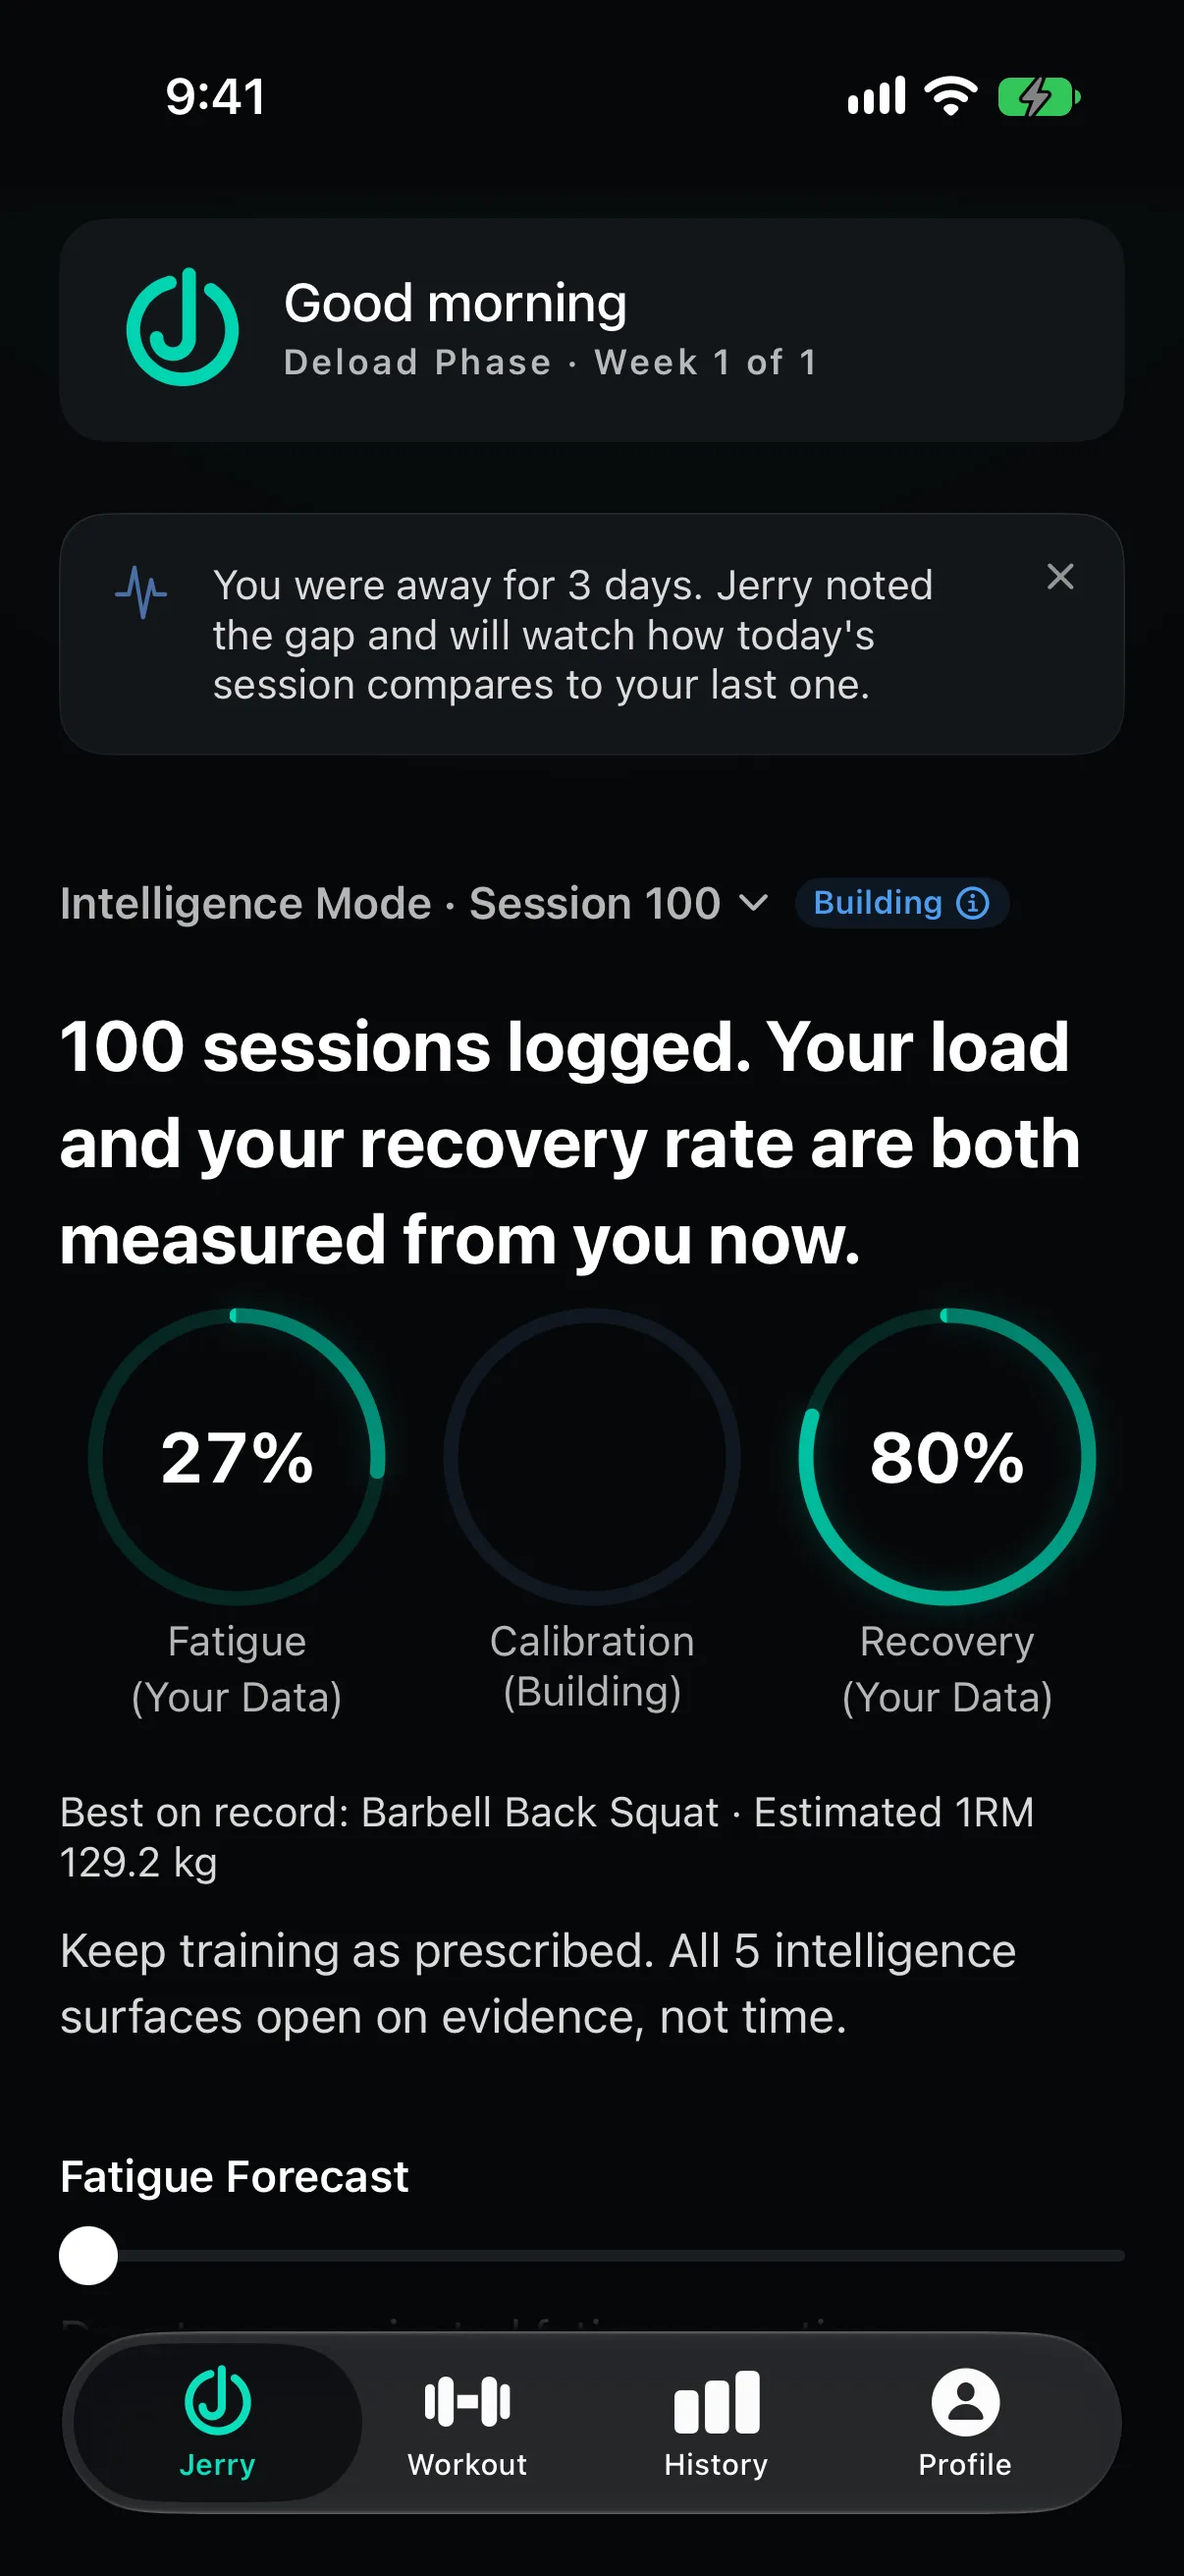
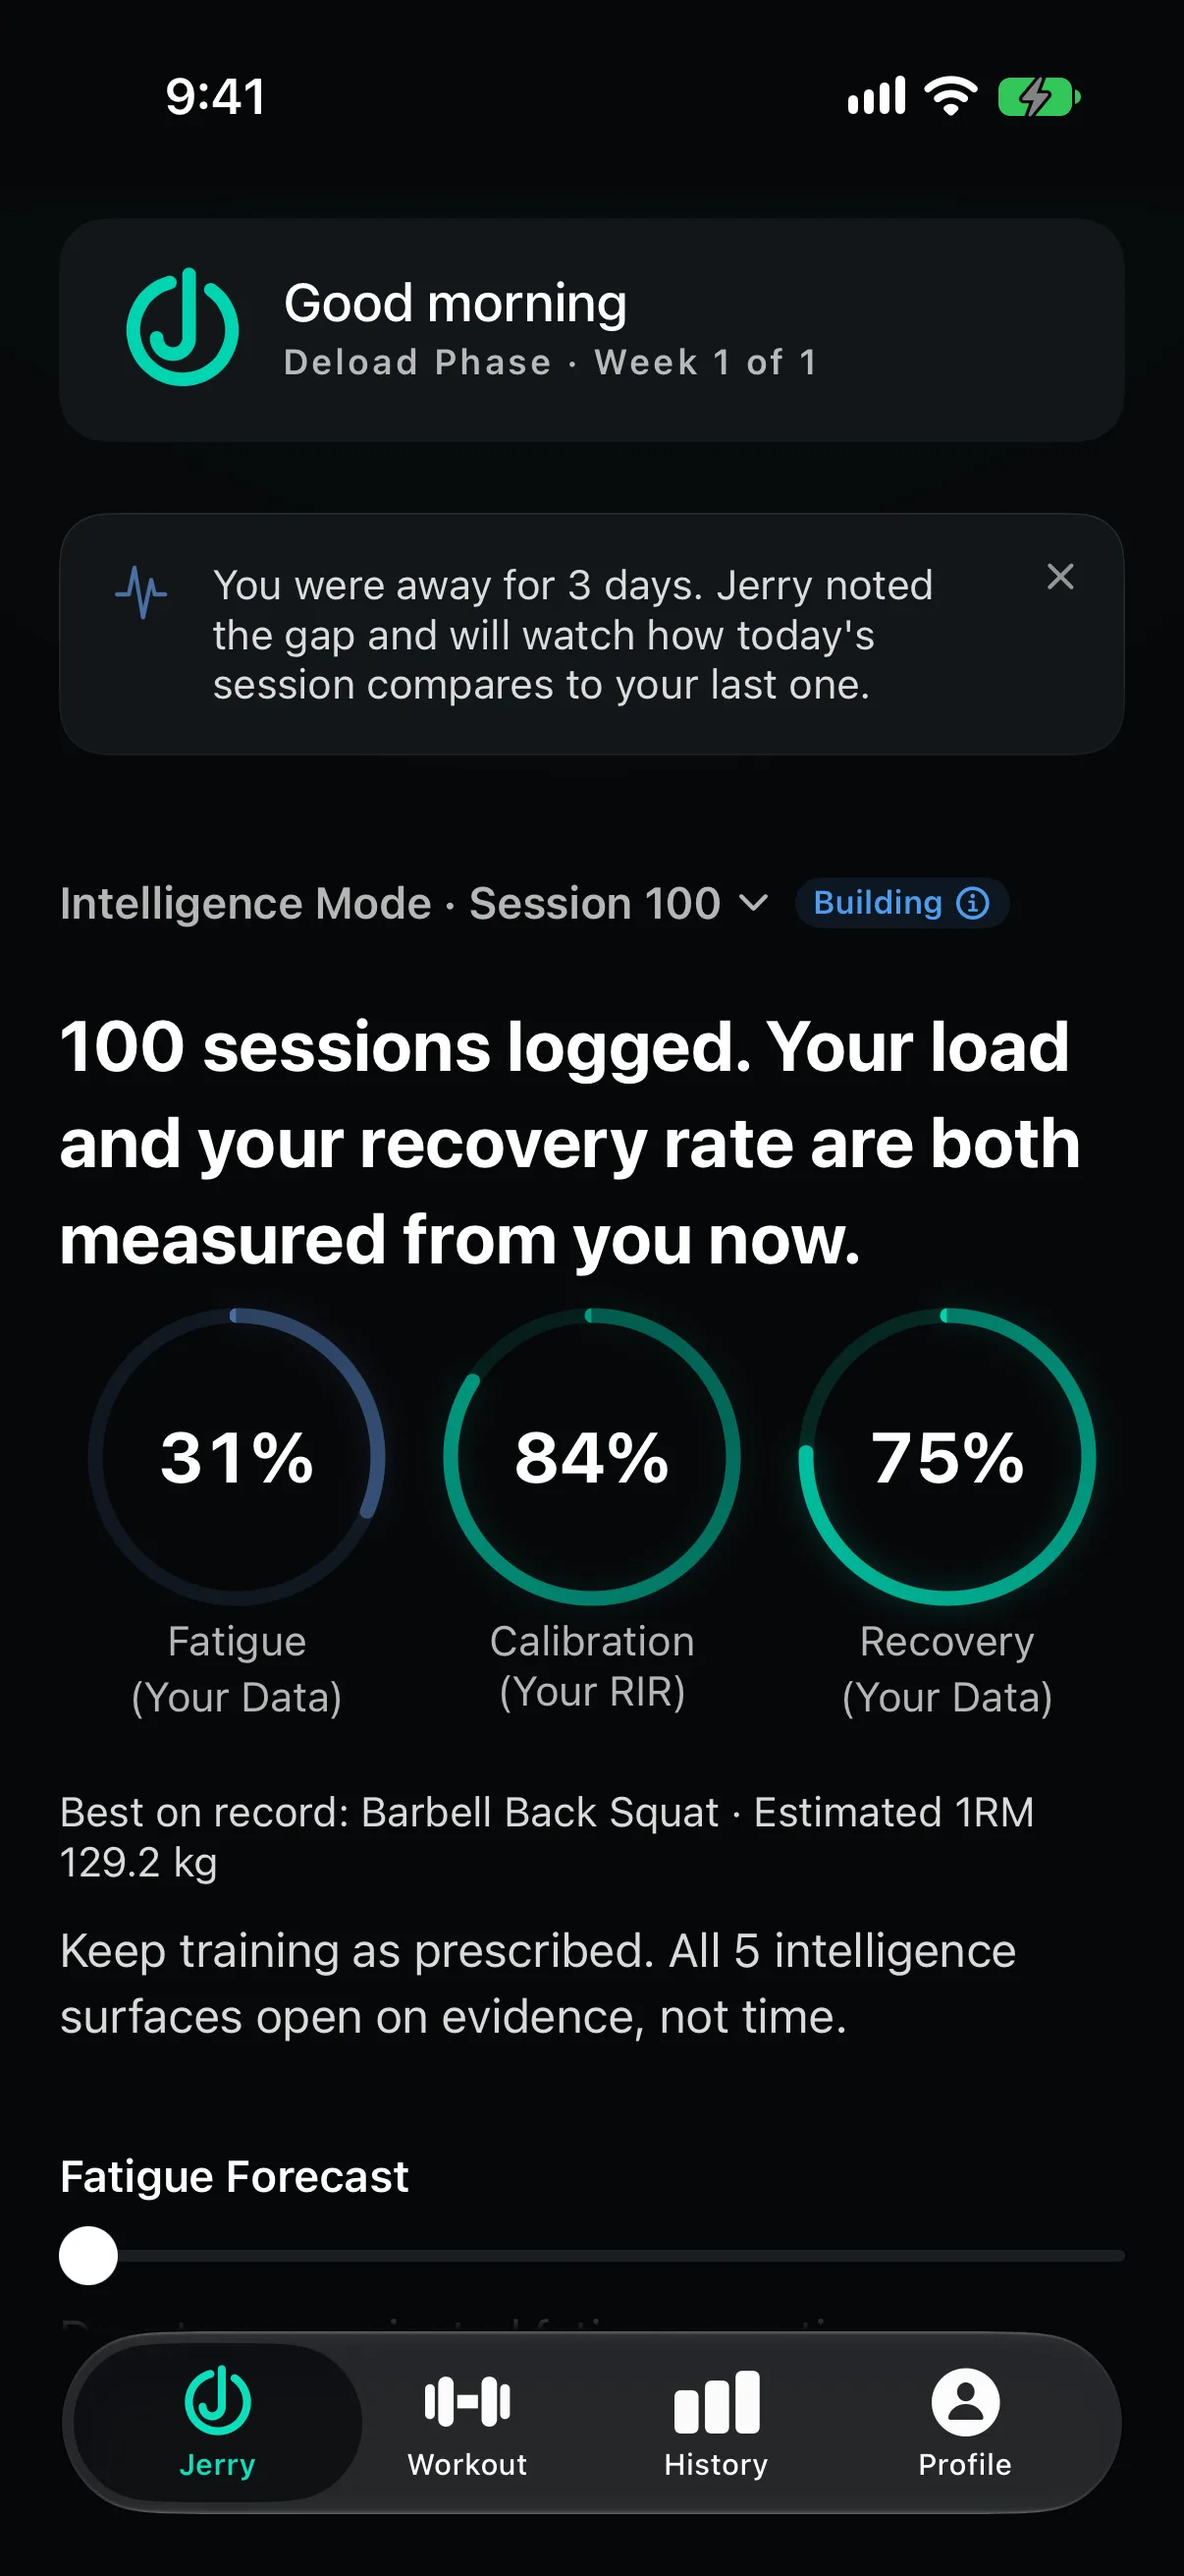
The ring finally reads a human number, and the gate caught the one stale figure I missed [verify-exempt: SEPARATE website repo, zero Swift. Three captures and one HTML file. The app tree shows 0 changes from me. ./check.sh green below.]
Re-shot against the peer's bd042841 (`scripts/verify.sh screens`, 14 of 14 flows, 88 images,
2065s, artifacts/screens/20260831-071224). All three published frames now come from ONE
athlete under the CURRENT fixture, so the day-one and hundred-session pictures are finally
the same person at two depths rather than two builds.

WHAT THE MIDDLE RING DOES NOW, across the three published frames:
  session 1     Calibration (Building), no number.        Correct: one session is not calibration.
  session 100   Calibration (Your RIR)  84%.              It fills.
  and answered  the same 84%, with fatigue and recovery turning to (Your Data).

That is the third state this ring has been in tonight and the first publishable one: empty at
every depth (the frozen reps), a perfect 100 (the frozen reserve), and now a number.

🔒 I DID NOT PUBLISH 84% BARE, AND THAT IS THE POINT OF THE CAPTION. The CEO's own phone reads
11% at fifty sessions and he asked tonight whether that was a bug. It is not: the ring scores
how consistently the ATHLETE reports his own effort, and a fixture whose reserve follows a
deterministic rule is a tidier reporter than any human. Publishing 84% as though it were
typical would put a flattering number on the site while the founder's real device shows
eleven, which is the overclaim Rule 15 exists to refuse. The caption says what the number is
narrower than, and that a human sits lower.
[…]

diff --git a/index.html b/index.html
@@ -181,8 +181,8 @@ details.raw pre{font-family:var(--mono);font-size:.6875rem;color:var(--ink3);ove
           <div class="device device--front">
             <div class="device__body"><div class="device__glass">
               <div class="device__screenwrap">
-                <img class="device__screen" src="/assets/shots/dashboard.webp?v=1dc4cd02ac" width="1206" height="2622" fetchpriority="high" decoding="async"
-                     alt="The OrderedStrength dashboard after one logged session. The mode badge reads Building, the fatigue and recovery rings are labelled Pop. Est. at 10 and 92 percent, and the Calibration ring carries no number at all.">
+                <img class="device__screen" src="/assets/shots/dashboard.webp?v=fa1ac92813" width="1206" height="2622" fetchpriority="high" decoding="async"
+                     alt="The OrderedStrength dashboard after one logged session. The mode badge reads Building, the fatigue and recovery rings are labelled Pop. Est. at 6 and 95 percent, and the Calibration ring carries no number at all.">
               </div>
               <span class="device__island" aria-hidden="true"></span><span class="device__sheen" aria-hidden="true"></span>
             </div></div>
@@ -294,7 +294,7 @@ details.raw pre{font-family:var(--mono);font-size:.6875rem;color:var(--ink3);ove
       <div class="device">
         <div class="device__body"><div class="device__glass">
           <div class="device__screenwrap">
-            <img class="device__screen" src="/assets/shots/dashboard.webp?v=1dc4cd02ac" width="1206" height="2622" loading="lazy" decoding="async"
+            <img class="device__screen" src="/assets/shots/dashboard.webp?v=fa1ac92813" width="1206" height="2622" loading="lazy" decoding="async"
                  alt="The OrderedStrength dashboard after one logged session, showing an Intelligence Mode badge reading Building, fatigue and recovery rings labelled Pop. Est., and a line reading that all five intelligence surfaces open on evidence, not time.">
         <span class="pin" style="left:79%;top:36.9%" data-pin="0">1</span>
         <span class="pin" style="left:6.5%;top:67.5%" data-pin="1">2</span>
@@ -424,40 +424,40 @@ field   sealedFor = 1755916800</pre>
         <div class="device">
           <div class="device__body"><div class="device__glass">
             <div class="device__screenwrap">
-              <img class="device__screen" src="/assets/shots/dashboard.webp?v=1dc4cd02ac" width="1206" height="2622" loading="lazy" decoding="async"
-                   alt="The dashboard after one logged session. Fatigue reads 10 percent and recovery 92 percent, both labelled Pop. Est., the Calibration ring carries no number, and the best lift on record is a Barbell Back Squat at an estimated one-rep maximum of 56.3 kilograms.">
+              <img class="device__screen" src="/assets/shots/dashboard.webp?v=fa1ac92813" width="1206" height="2622" loading="lazy" decoding="async"
+                   alt="The dashboard after one logged session. Fatigue reads 6 percent and recovery 95 percent, both labelled Pop. Est., the Calibration ring carries no number, and the best lift on record is a Barbell Back Squat at an estimated one-rep maximum of 56.3 kilograms.">
             </div>
             <span class="device__island" aria-hidden="true"></span><span class="device__sheen" aria-hidden="true"></span>
           </div></div>
           <span class="device__key device__key--act" aria-hidden="true"></span><span class="device__key device__key--vup" aria-hidden="true"></span><span class="device__key device__key--vdn" aria-hidden="true"></span><span class="device__key device__key--pwr" aria-hidden="true"></span><span class="device__key device__key--cam" aria-hidden="true"></span>
         </div>
-        <figcaption><b>What it knows</b><span>Fatigue <code>10%</code> and recovery <code>92%</code>, both stamped <code>Pop. Est.</code> The middle ring says <code>Calibration (Building)</code> and shows no number, because one session is not calibration. The strongest thing on record is a <code>Barbell Back Squat</code> at <code>Estimated 1RM 56.3 kg</code>, which is what a beginner's first weeks actually weigh.</span></figcaption>
+        <figcaption><b>What it knows</b><span>Fatigue <code>6%</code> and recovery <code>95%</code>, both stamped <code>Pop. Est.</code> The middle ring says <code>Calibration (Building)</code> and shows no number, because one session is not calibration. The strongest thing on record is a <code>Barbell Back Squat</code> at <code>Estimated 1RM 56.3 kg</code>, which is what a beginner's first weeks actually weigh.</span></figcaption>
       </figure>
       <figure class="state">
         <div class="device">
           <div class="device__body"><div class="device__glass">
             <div class="device__screenwrap">
-              <img class="device__screen" src="/assets/shots/hundred.webp?v=4ebc875afc" width="1206" height="2622" loading="lazy" decoding="async"
-                   alt="The same dashboard after one hundred logged sessions. The headline says the load now comes from the athlete's own sets rather than population averages, the best lift on record is a Barbell Back Squat at Estimated 1RM 129.2 kg, and the Calibration ring still carries no number.">
+              <img class="device__screen" src="/assets/shots/hundred.webp?v=7af5ec1d96" width="1206" height="2622" loading="lazy" decoding="async"
+                   alt="The same dashboard after one hundred logged sessions. The headline says the load now comes from the athlete's own sets rather than population averages, the best lift on record is a Barbell Back Squat at Estimated 1RM 129.2 kg, and the Calibration ring now reads 84 percent labelled Your RIR.">
             </div>
             <span class="device__island" aria-hidden="true"></span><span class="device__sheen" aria-hidden="true"></span>
           </div></div>
           <span class="device__key device__key--act" aria-hidden="true"></span><span class="device__key device__key--vup" aria-hidden="true"></span><span class="device__key device__key--vdn" aria-hidden="true"></span><span class="device__key device__key--pwr" aria-hidden="true"></span><span class="device__key device__key--cam" aria-hidden="true"></span>
         </div>
-        <figcaption><b>What changed by a hundred</b><span>The same screen, the same athlete, <code>Session 100</code>. The strongest thing on record is now a <code>Barbell Back Squat</code> at <code>Estimated 1RM 129.2 kg</code>, and the headline reads <code>100 sessions logged</code>. Fatigue and recovery are still stamped <code>Pop. Est.</code>, and the screen says what would change that. The middle ring is narrower again: it reads how consistently you report your own reserve, and on the day this frame was taken the test athlete had not given it enough variety to read, so it holds at <code>Calibration (Building)</code>.</span></figcaption>
+        <figcaption><b>What changed by a hundred</b><span>The same screen, the same athlete, <code>Session 100</code>. The strongest thing on record is now a <code>Barbell Back Squat</code> at <code>Estimated 1RM 129.2 kg</code>, and the middle ring has filled: <code>84%</code>, stamped <code>Calibration (Your RIR)</code>. Read that one carefully, because it is narrower than it looks. It scores how consistently you report your own effort, not how well Jerry knows you, and this athlete is a test fixture who reports his with machine regularity. A human is less tidy and will sit lower. Fatigue and recovery are still stamped <code>Pop. Est.</code>, and the screen says what would change that.</span></figcaption>
       </figure>
       <figure class="state">
         <div class="device">
           <div class="device__body"><div class="device__glass">
             <div class="device__screenwrap">
-              <img class="device__screen" src="/assets/shots/answered.webp?v=83de273ffd" width="1206" height="2622" loading="lazy" decoding="async"
-                   alt="The same dashboard after one hundred sessions, this time with the athlete's soreness reported. Fatigue and recovery are both labelled Your Data, recovery reads 80%, and the headline says his load and his recovery rate are both measured from him now.">
+              <img class="device__screen" src="/assets/shots/answered.webp?v=ffc9616a49" width="1206" height="2622" loading="lazy" decoding="async"
+                   alt="The same dashboard after one hundred sessions, this time with the athlete's soreness reported. Fatigue and recovery are both labelled Your Data, recovery reads 75%, and the headline says his load and his recovery rate are both measured from him now.">
             </div>
             <span class="device__island" aria-hidden="true"></span><span class="device__sheen" aria-hidden="true"></span>
           </div></div>
           <span class="device__key device__key--act" aria-hidden="true"></span><span class="device__key device__key--vup" aria-hidden="true"></span><span class="device__key device__key--vdn" aria-hidden="true"></span><span class="device__key device__key--pwr" aria-hidden="true"></span><span class="device__key device__key--cam" aria-hidden="true"></span>
         </div>
-        <figcaption><b>What changes when you answer</b><span>The same athlete and the same hundred sessions as the frame beside it, with one difference: he told Jerry how sore he was the day after training. The two sublabels that said population estimate now read <code>Your Data</code>, recovery reads <code>80%</code>, and the line at the top becomes <code>Your load and your recovery rate are both measured from you now</code>. Said plainly rather than staged: the test suite handed the app that soreness through the same door your own answer uses, and nothing else was changed.</span></figcaption>
+        <figcaption><b>What changes when you answer</b><span>The same athlete and the same hundred sessions as the frame beside it, with one difference: he told Jerry how sore he was the day after training. The two sublabels that said population estimate now read <code>Your Data</code>, recovery reads <code>75%</code>, and the line at the top becomes <code>Your load and your recovery rate are both measured from you now</code>. Said plainly rather than staged: the test suite handed the app that soreness through the same door your own answer uses, and nothing else was changed.</span></figcaption>
       </figure>
       <figure class="state">
         <div class="device">
